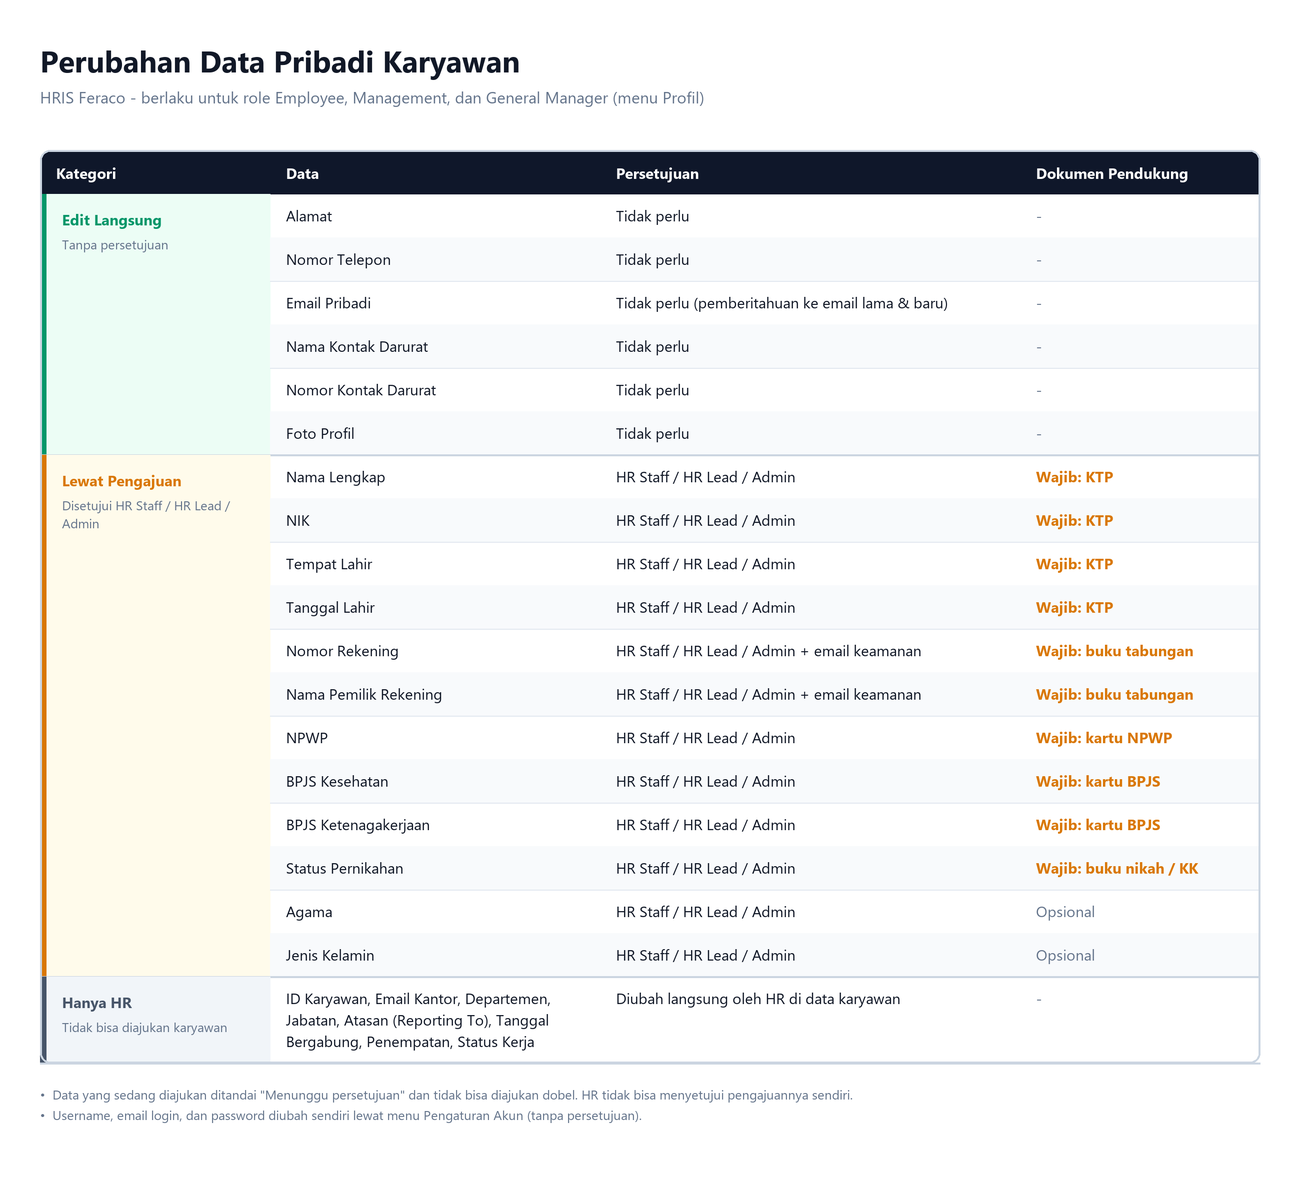
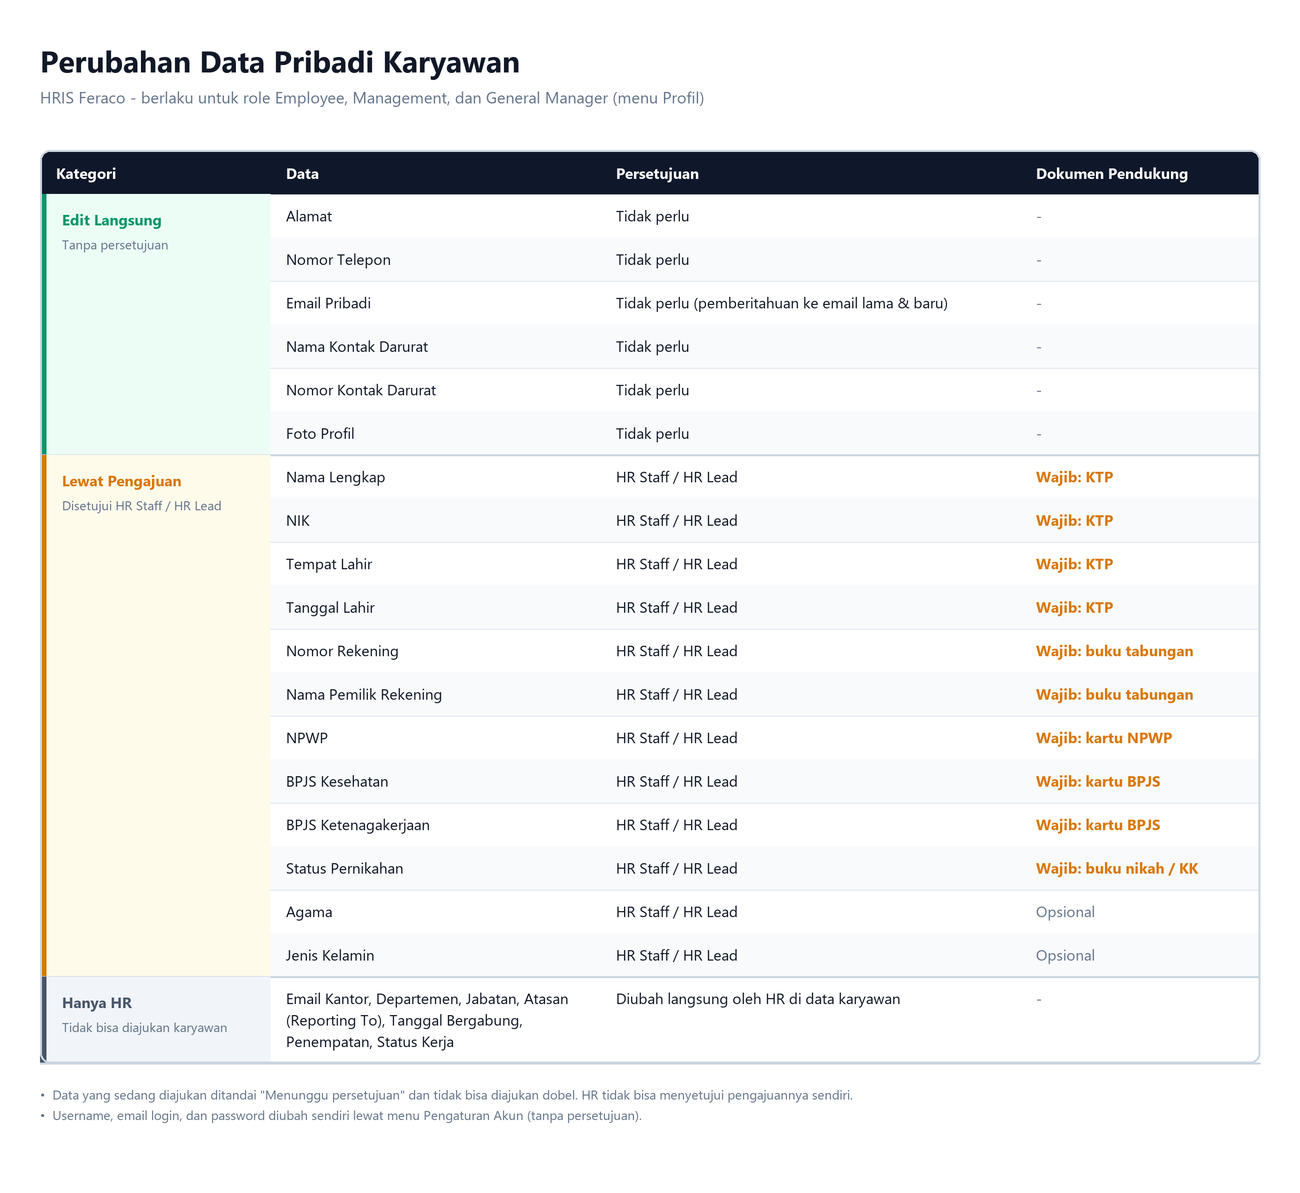
feat(leaves): enforce mandatory attachment for all leave requests and update related tests

Changed region(s): [[0.2154, 0.8374, 0.4308, 0.8994], [0.5846, 0.4342, 0.7077, 0.5893], [0.5846, 0.6513, 0.6154, 0.8064]]

diff --git a/frontend/src/features/leaves/leave-form.tsx b/frontend/src/features/leaves/leave-form.tsx
@@ -9,6 +9,7 @@ import { Input } from '@/components/ui/input';
 import { Label } from '@/components/ui/label';
 import { Skeleton } from '@/components/ui/skeleton';
 import {
+  cancelLeave,
   createLeaveRequest,
   formatDays,
   getMyBalances,
@@ -73,6 +74,10 @@ export function LeaveForm({ redirectTo = '/dashboard/leave' }: { redirectTo?: st
       toast.error('Lengkapi kategori, tanggal (minimal 1 hari), dan alasan pengajuan.');
       return;
     }
+    if (!file) {
+      toast.error('Berkas/Dokumen Pendukung wajib dilampirkan.');
+      return;
+    }
     if (dates.some((d) => d < todayIso)) {
       toast.error('Tidak dapat mengajukan untuk tanggal sebelum hari ini.');
       return;
@@ -93,11 +98,19 @@ export function LeaveForm({ redirectTo = '/dashboard/leave' }: { redirectTo?: st
         dates,
         half_days: halfDayAllowed ? halfDays.filter((d) => dates.includes(d)) : [],
         reason: form.reason,
-        // Sent up front so the "pengajuan baru" email already names the file;
-        // the binary follows in the upload call below.
-        ...(file ? { attachment_name: file.name } : {})
+        // Required. Sent up front so the "pengajuan baru" email already names
+        // the file; the binary follows in the upload call below.
+        attachment_name: file.name
       });
-      if (file) await uploadLeaveAttachment(created.id, file);
+      try {
+        await uploadLeaveAttachment(created.id, file);
+      } catch (err) {
+        // Never leave a request without its document: cancel and let the user retry.
+        await cancelLeave(created.id).catch(() => undefined);
+        throw new Error(
+          `Upload berkas gagal, pengajuan dibatalkan. Silakan ajukan ulang. (${err instanceof Error ? err.message : 'error'})`
+        );
+      }
       toast.success('Pengajuan cuti berhasil dibuat');
       router.push(redirectTo);
     } catch (err) {
@@ -258,10 +271,11 @@ export function LeaveForm({ redirectTo = '/dashboard/leave' }: { redirectTo?: st
             </div>
             <div className='md:col-span-4'>
               <Label className='text-xs'>
-                Berkas/Dokumen Pendukung <span className='text-muted-foreground'>(opsional sesuai jenis pengajuan)</span>
+                Berkas/Dokumen Pendukung <span className='text-destructive'>*</span>
               </Label>
               <input
                 type='file'
+                required
                 className='mt-1 block w-full text-sm text-muted-foreground file:mr-3 file:rounded-md file:border-0 file:bg-primary file:px-3 file:py-1.5 file:text-sm file:font-medium file:text-primary-foreground hover:file:bg-primary/80'
                 onChange={(e) => setFile(e.target.files?.[0] || null)}
               />

diff --git a/frontend/src/features/leaves/leave-category-manager.tsx b/frontend/src/features/leaves/leave-category-manager.tsx
@@ -231,14 +231,7 @@ export function LeaveCategoryManager({
                 />
                 Dibayar
               </label>
-              <label className='flex items-center gap-2'>
-                <input
-                  type='checkbox'
-                  checked={form.requires_attachment}
-                  onChange={(e) => setForm((f) => ({ ...f, requires_attachment: e.target.checked }))}
-                />
-                Wajib lampiran
-              </label>
+              {/* "Wajib lampiran" removed: a supporting document is required for every category. */}
               {annual && (
                 <label className='flex items-center gap-2'>
                   <input

diff --git a/backend/apps/leaves/tests.py b/backend/apps/leaves/tests.py
@@ -151,6 +151,7 @@ class LeaveWorkflowTests(TestCase):
             'start_date': '2026-01-05',
             'end_date': '2026-01-07',
             'reason': 'Same request',
+            'attachment_name': 'bukti.pdf',
         }
         resp1 = client.post('/api/leaves/requests/', payload, format='json')
         self.assertEqual(resp1.status_code, 201)
@@ -497,7 +498,8 @@ class BusinessRuleTests(TestCase):
         self.req = SimpleNamespace(user=self.emp_user)
 
     def _valid(self, lt, start='2026-01-05', end='2026-01-07', extra=None):
-        data = {'leave_type': lt.id, 'start_date': start, 'end_date': end, 'kind': lt.kind, 'reason': 'x'}
+        data = {'leave_type': lt.id, 'start_date': start, 'end_date': end, 'kind': lt.kind, 'reason': 'x',
+                'attachment_name': 'bukti.pdf'}
         if extra:
             data.update(extra)
         return self.SR(data=data, context={'request': self.req})
@@ -522,30 +524,18 @@ class BusinessRuleTests(TestCase):
         self.assertFalse(s.is_valid())
         self.assertIn('start_date', s.errors)
 
-    def test_sick_doctor_note_required(self):
+    def test_attachment_always_required(self):
+        # Every category, even 1 day of Izin Sakit, needs a supporting document.
         sick = LeaveType.objects.create(
             name='Sick', code='SICK', kind='PERMISSION',
             max_days_without_attachment=1, is_paid=False,
         )
-        # 1 day, no attachment: OK.
-        s = self._valid(sick, '2026-01-05', '2026-01-05')
+        for blank in ('', '   ', None):
+            s = self._valid(sick, '2026-01-05', '2026-01-05', {'attachment_name': blank})
+            self.assertFalse(s.is_valid(), blank)
+            self.assertIn('attachment_name', s.errors)
+        s = self._valid(sick, '2026-01-05', '2026-01-05', {'attachment_name': 'surat_dokter.pdf'})
         self.assertTrue(s.is_valid(), s.errors)
-        # 2 days, no attachment: rejected.
-        s = self._valid(sick, '2026-01-05', '2026-01-06')
-        self.assertFalse(s.is_valid())
-        self.assertIn('attachment_name', s.errors)
-        # 2 days WITH attachment: OK.
-        s = self._valid(sick, '2026-01-05', '2026-01-06', {'attachment_name': 'surat_dokter.pdf'})
-        self.assertTrue(s.is_valid(), s.errors)
-
-    def test_requires_attachment(self):
-        misc = LeaveType.objects.create(
-            name='Miscarriage', code='MISCARRIAGE', kind='LEAVE',
-            requires_attachment=True, is_paid=True,
-        )
-        s = self._valid(misc, '2026-01-05', '2026-01-05')
-        self.assertFalse(s.is_valid())
-        self.assertIn('attachment_name', s.errors)
 
     def test_medical_deducts_from_annual(self):
         annual = LeaveType.objects.create(
@@ -861,7 +851,7 @@ class AnnualQuotaPolicyTests(TestCase):
 
         data = {
             'leave_type': self.annual.id, 'kind': 'LEAVE', 'reason': 'x',
-            'start_date': '2026-03-05', 'end_date': '2026-03-06',
+            'start_date': '2026-03-05', 'end_date': '2026-03-06', 'attachment_name': 'bukti.pdf',
         }
         s = LeaveRequestSerializer(data=data, context={'request': req})
         self.assertFalse(s.is_valid())
@@ -897,7 +887,7 @@ class LeaveRevisionTests(TestCase):
 
     def _submit(self, **payload):
         self.api.force_authenticate(self.emp_user)
-        data = {'leave_type': self.special.id, 'kind': 'LEAVE', 'reason': 'Keperluan'}
+        data = {'leave_type': self.special.id, 'kind': 'LEAVE', 'reason': 'Keperluan', 'attachment_name': 'bukti.pdf'}
         data.update(payload)
         return self.api.post('/api/leaves/requests/', data, format='json')
 
@@ -1091,7 +1081,7 @@ class LeaveQuotaHalfDayAdjustmentTests(TestCase):
 
     def _submit(self, **payload):
         self.api.force_authenticate(self.emp_user)
-        data = {'leave_type': self.annual.id, 'kind': 'LEAVE', 'reason': 'Keperluan'}
+        data = {'leave_type': self.annual.id, 'kind': 'LEAVE', 'reason': 'Keperluan', 'attachment_name': 'bukti.pdf'}
         data.update(payload)
         return self.api.post('/api/leaves/requests/', data, format='json')
 
@@ -1317,6 +1307,7 @@ class HrLeadSelfServiceTests(TestCase):
         # HR Lead submits leave for HIMSELF/HERSELF only.
         res = self.api.post('/api/leaves/requests/', {
             'leave_type': self.annual.id, 'kind': 'LEAVE', 'reason': 'x', 'dates': ['2026-09-01'],
+            'attachment_name': 'bukti.pdf',
         }, format='json')
         self.assertEqual(res.status_code, 201, res.data)
         self.assertEqual(res.data['employee'], self.lead_emp.id)
@@ -1344,7 +1335,7 @@ class ManagementSelfLeaveTests(TestCase):
         )
         self.annual = LeaveType.objects.create(name='Cuti Tahunan', code='ANNUAL', default_quota=12)
         self.payload = {'leave_type': self.annual.id, 'kind': 'LEAVE', 'reason': 'Keperluan keluarga',
-                        'dates': ['2026-09-01']}
+                        'dates': ['2026-09-01'], 'attachment_name': 'bukti.pdf'}
 
     def test_management_can_submit_own_leave(self):
         self.api.force_authenticate(self.mgr_user)
@@ -1419,7 +1410,7 @@ class LeaveMinNoticeTests(TestCase):
 
     def _submit(self, lt, dates, kind='LEAVE'):
         return self.api.post('/api/leaves/requests/', {
-            'leave_type': lt.id, 'kind': kind, 'reason': 'x', 'dates': dates,
+            'leave_type': lt.id, 'kind': kind, 'reason': 'x', 'dates': dates, 'attachment_name': 'bukti.pdf',
         }, format='json')
 
     def test_less_than_h7_rejected(self):

diff --git a/backend/apps/leaves/serializers.py b/backend/apps/leaves/serializers.py
@@ -387,15 +387,11 @@ class LeaveRequestSerializer(serializers.ModelSerializer):
                         )}
                     )
 
-                # Attachment rules: mandatory types OR doctor's note above threshold
-                # (e.g. Izin Sakit: 1 hari tanpa surat, >1 hari wajib surat dokter).
-                needs_attachment = leave_type.requires_attachment or (
-                    leave_type.max_days_without_attachment
-                    and total > leave_type.max_days_without_attachment
-                )
-                if needs_attachment and not self.initial_data.get('attachment_name'):
+                # Berkas/Dokumen Pendukung is mandatory for EVERY izin/cuti
+                # request (the name is sent on create, the file right after).
+                if not (self.initial_data.get('attachment_name') or '').strip():
                     raise serializers.ValidationError(
-                        {'attachment_name': 'Lampiran wajib untuk pengajuan ini.'}
+                        {'attachment_name': 'Berkas/Dokumen Pendukung wajib dilampirkan.'}
                     )
 
                 # Quota check against the type that actually gets deducted

diff --git a/backend/apps/personnel/tests.py b/backend/apps/personnel/tests.py
@@ -1120,6 +1120,15 @@ class DashboardHrApiTests(TestCase):
         self.assertIn('recent_activities', res.data)
         self.assertEqual(len(res.data['birthdays']), 1)
 
+    def test_contracts_ending_shows_five_soonest(self):
+        today = timezone.localdate()
+        for i in range(7):
+            emp = Employee.objects.create(employee_id=f'C{i:03d}', full_name=f'Kontrak {i}', nik=f'99000000{i}')
+            EmployeeContract.objects.create(employee=emp, contract_type='PKWT', status='ACTIVE',
+                                            start_date=today - timedelta(days=300), end_date=today + timedelta(days=10 + i))
+        rows = self.client.get('/api/dashboard/hr/').data['contracts_ending']
+        self.assertEqual([r['employee_name'] for r in rows], [f'Kontrak {i}' for i in range(5)])
+
     def test_employee_denied(self):
         self.client.force_login(make_user('EMPLOYEE'))
         res = self.client.get('/api/dashboard/hr/')

diff --git a/backend/apps/personnel/views.py b/backend/apps/personnel/views.py
@@ -699,11 +699,11 @@ class DashboardHrView(APIView):
             }
             for lr in leave_today
         ]
-        # End of contract: active contracts with a future end_date, soonest first.
+        # End of contract: the 5 active contracts ending soonest (future end_date).
         contracts = (
             EmployeeContract.objects.filter(status='ACTIVE', end_date__gte=today)
             .select_related('employee')
-            .order_by('end_date')[:10]
+            .order_by('end_date')[:5]
         )
         contracts_data = [
             {
